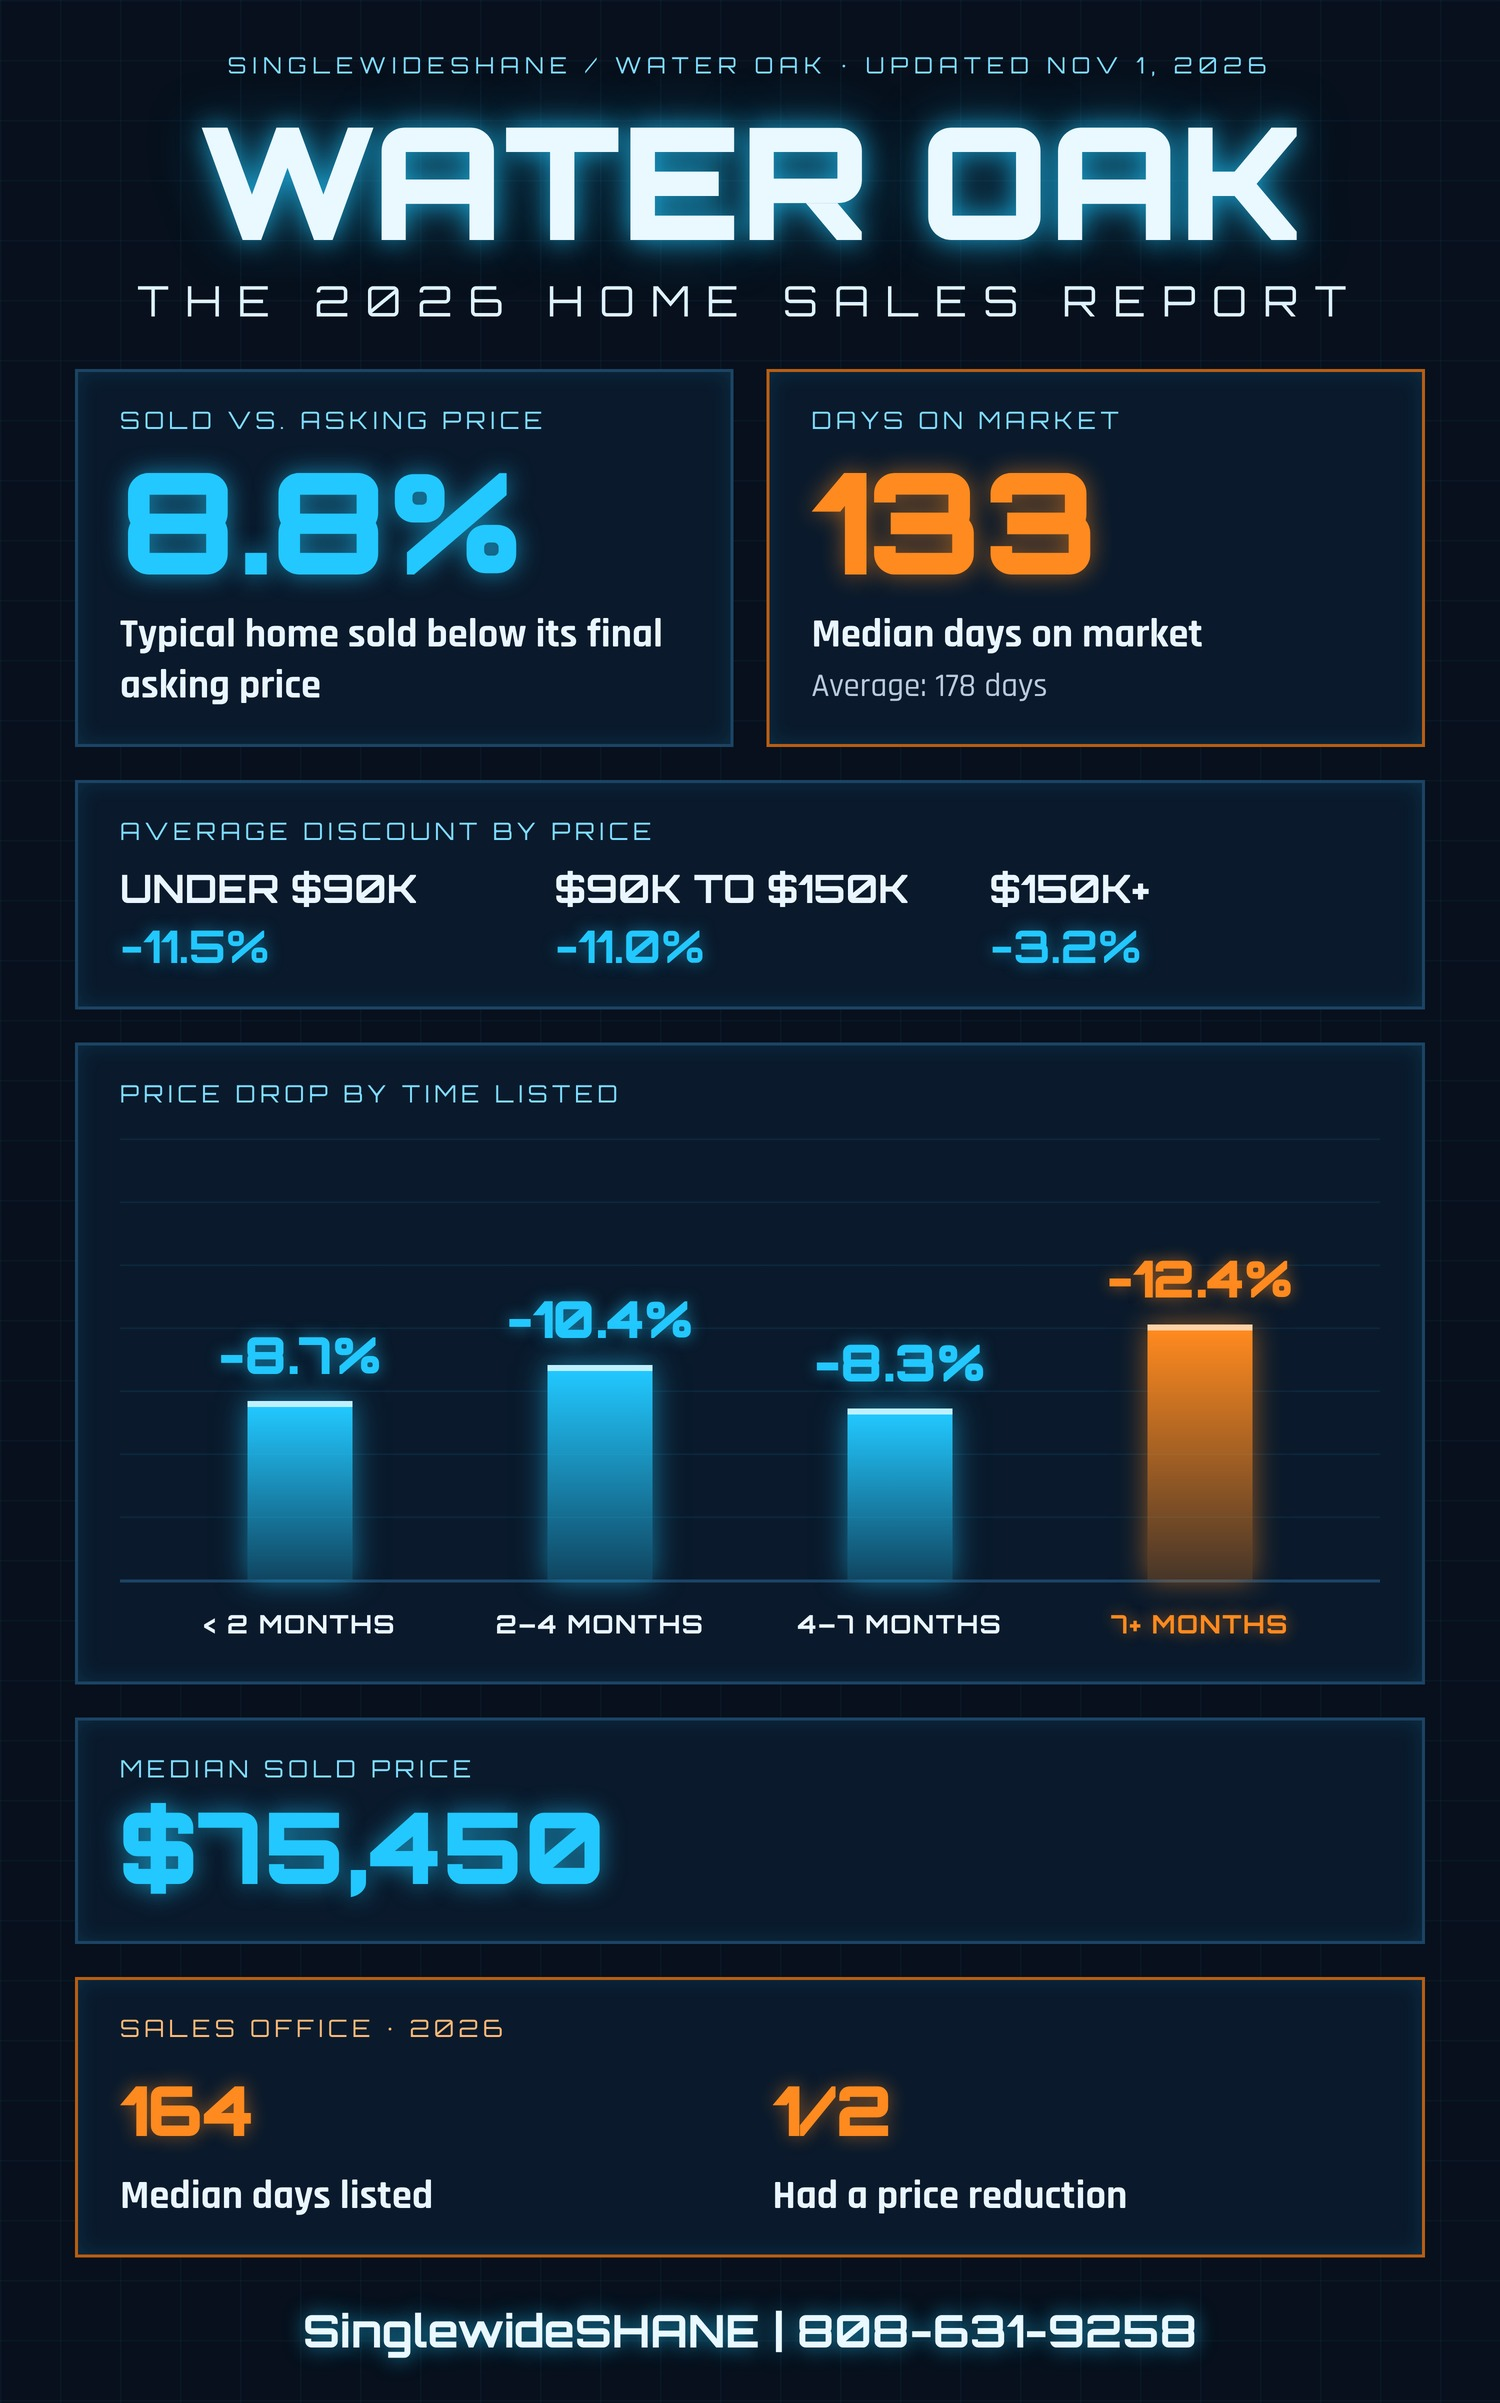
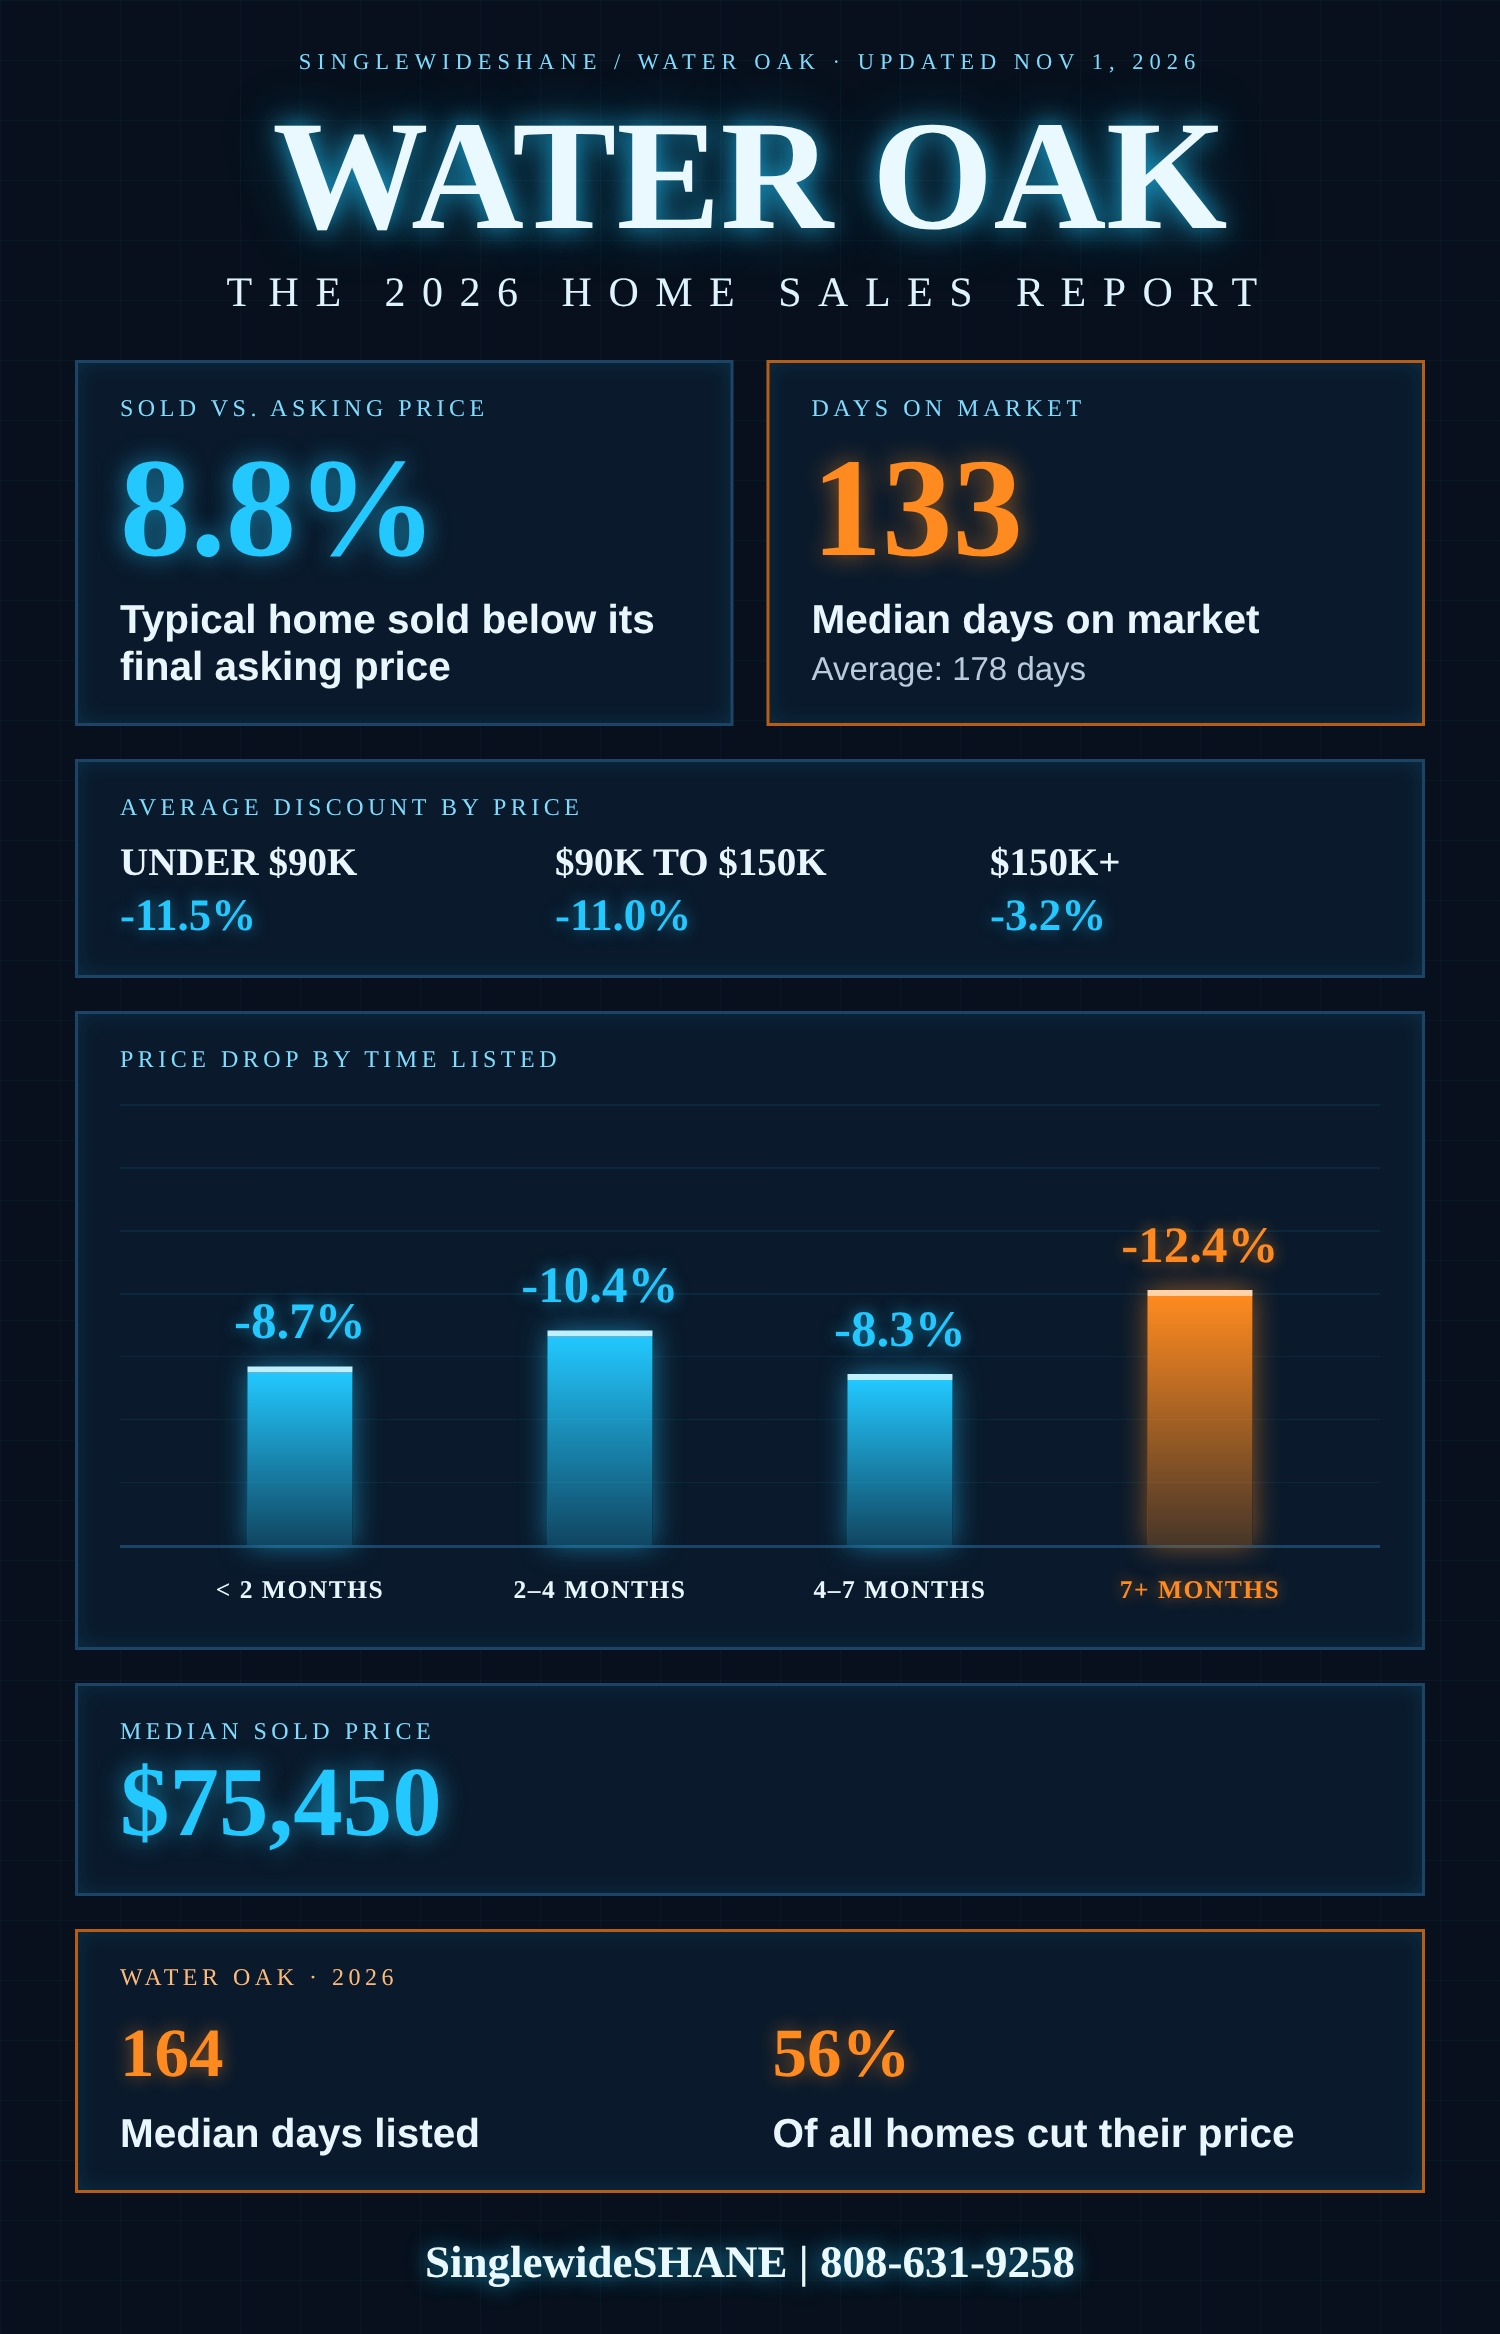
Graphic: bottom box now Water Oak · 2026 with 56% price-cut stat
Claude-Session: https://claude.ai/code/session_01Xqe5bziBXrWGYSroNfe7iv

diff --git a/list-to-sold/graphic/report_template.html b/list-to-sold/graphic/report_template.html
@@ -71,10 +71,10 @@ h1{font-family:Orb;font-weight:900;font-size:104px;text-align:center;line-height
 <div class="panel"><div class="lab">MEDIAN SOLD PRICE</div>
  <div class="maker"><div class="w">$75,450</div></div></div>
 
-<div class="panel sun"><div class="lab">SALES OFFICE · 2026</div>
+<div class="panel sun"><div class="lab">WATER OAK · 2026</div>
  <div class="sg">
   <div><div class="v">164</div><div class="d1">Median days listed</div></div>
-  <div><div class="v">1/2</div><div class="d1">Had a price reduction</div></div>
+  <div><div class="v">56%</div><div class="d1">Of all homes cut their price</div></div>
  </div></div>
 
 <div class="foot">SinglewideSHANE | 808-631-9258</div>
